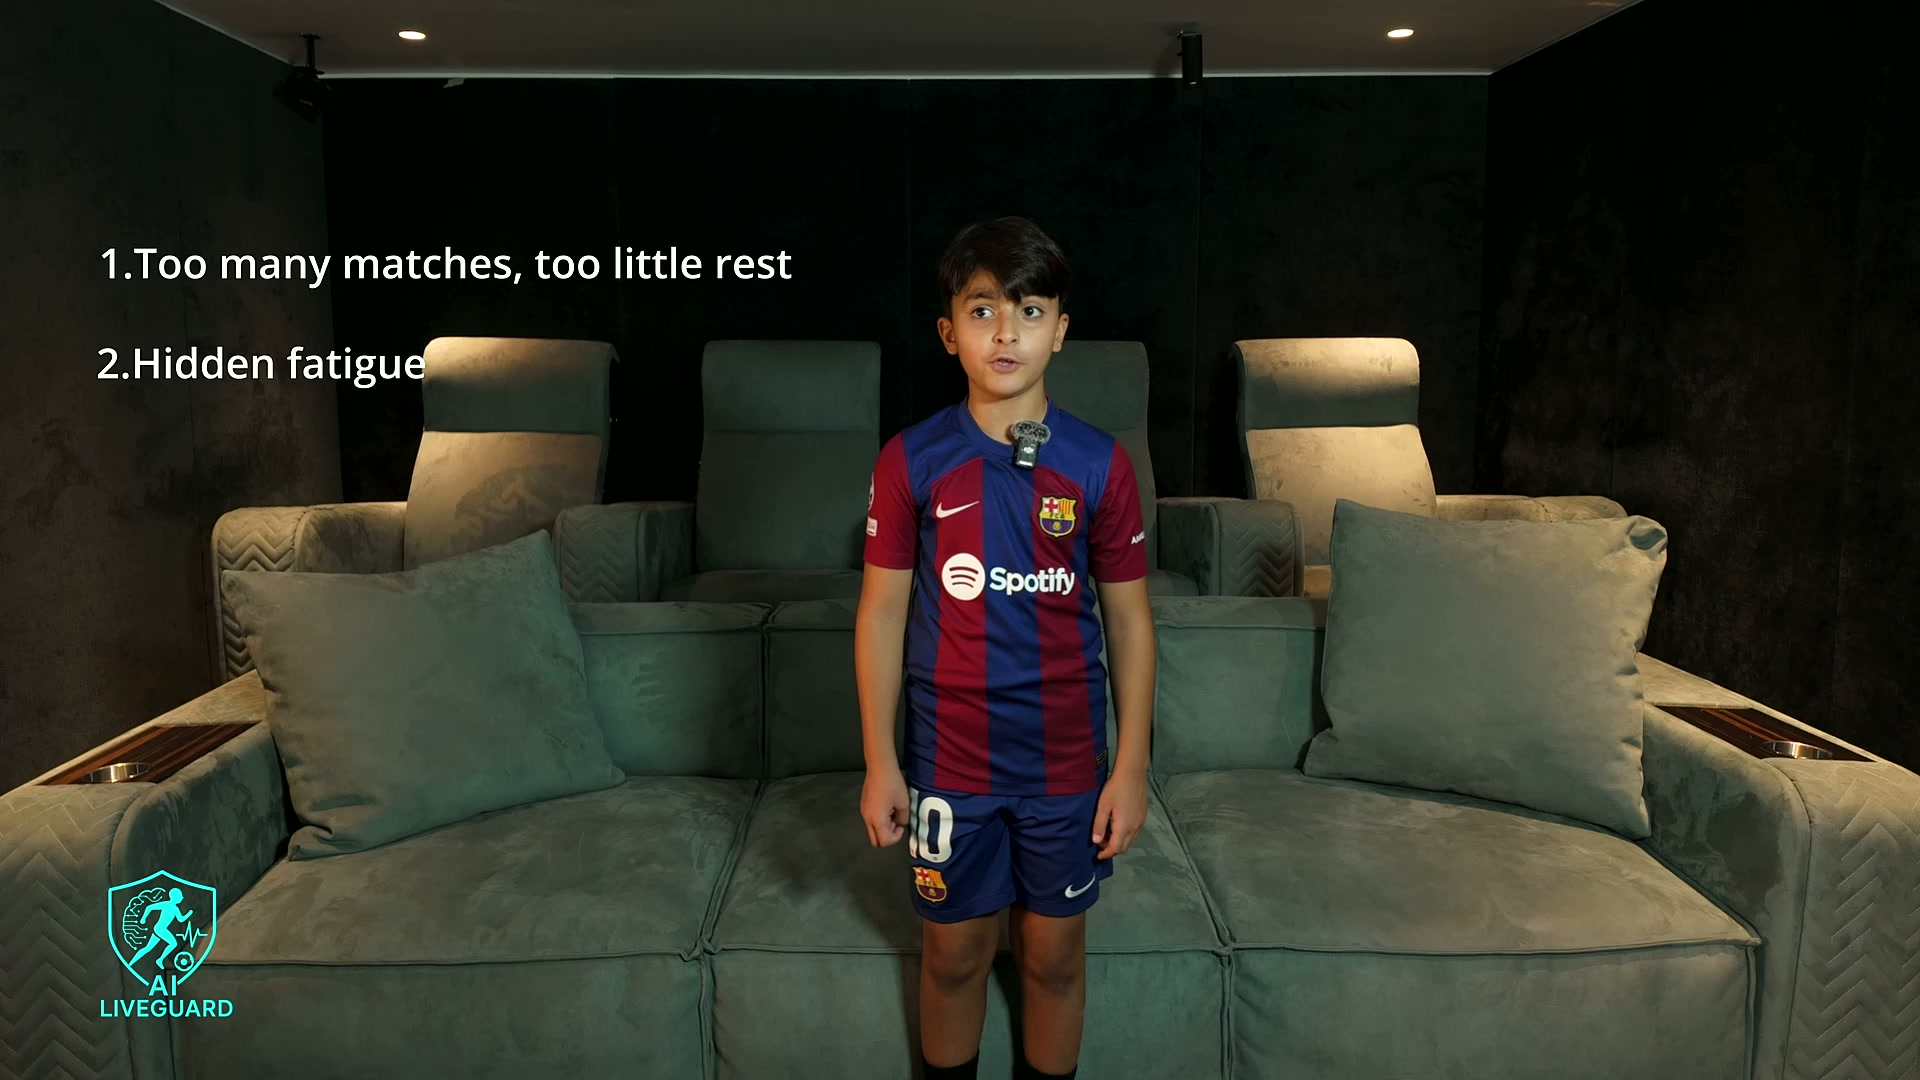
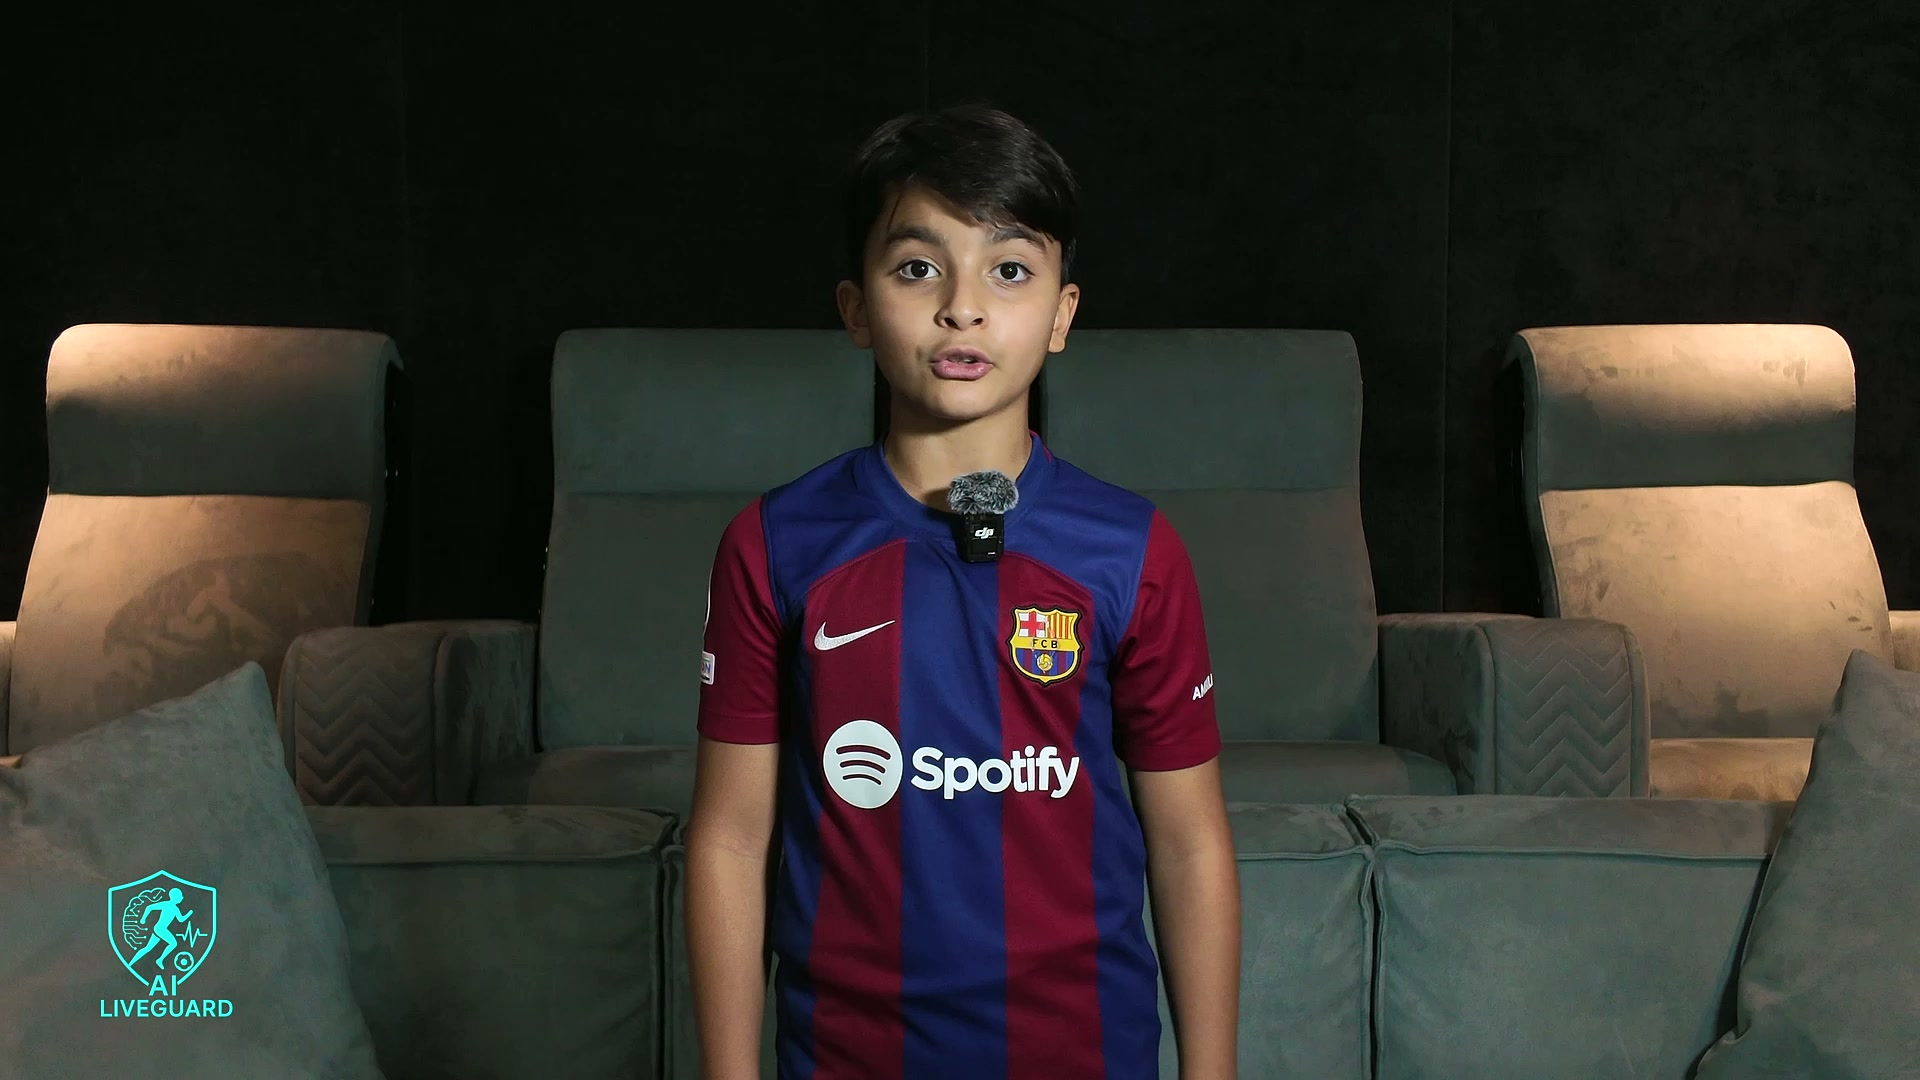
Rewrite About, fix step-list layout, new video poster, nicer hero line

diff --git a/src/App.jsx b/src/App.jsx
@@ -57,10 +57,9 @@ export default function App() {
         <header className="hero" id="top">
           <span className="glow" /><span className="grid" />
           <div className="inner">
-            <img className="portrait" src="img/tawfiq.jpg" alt="Tawfiq Fakhouri" />
             <p className="eyebrow">Portfolio · 2024 — 2026</p>
             <h1>Tawfiq<br />Fakhouri</h1>
-            <p className="sub">10 years old · Robot builder · Coder · Maker</p>
+            <p className="sub">Ten years old · <b>He finds the problem, then builds the answer</b></p>
             <p className="lede">
               Everything here is something Tawfiq actually built — robots that run, games he
               programmed, circuits he soldered, and an app he invented that
@@ -223,18 +222,33 @@ export default function App() {
         <section className="sec" id="about">
           <p className="sec-label">About</p>
           <h2>About Tawfiq</h2>
-          <p className="measure" style={{ fontSize: 'clamp(18px,2vw,23px)', lineHeight: 1.5 }}>
-            Tawfiq is ten. He builds robots, writes games, solders his own circuits and flies FPV
-            drones — and the thing he does best is <b>look at a problem and think of something to
-            build that would solve it</b>.
+
+          <p className="abig">
+            Tawfiq is ten years old, and he has already built more than seventy things.
           </p>
+
           <p className="measure">
-            That is how AI LiveGuard started, and it is why the judges at the Dead Sea gave him the
-            Creative Solution Award. He is now training on LEGO Mindstorms for competition.
+            Robots that drive themselves. Games with rules he wrote. Circuits joined with his own
+            soldering iron. Drones he learned to fly in a simulator first, then for real.
           </p>
+
           <p className="measure">
-            Everything in this portfolio was built with his instructor, <b>Nmaa Al Hawary</b>, between
-            2024 and 2026.
+            But the part that sets him apart is not any one of those. It is what happens before the
+            building starts — <b>he looks at a problem and thinks of something that would solve it</b>.
+          </p>
+
+          <p className="measure">
+            That is where AI LiveGuard came from: a boy who noticed that tired footballers get hurt,
+            and decided the coach should be able to see it coming. It is also why the judges at the
+            Dead Sea handed him the <b>Creative Solution Award</b>.
+          </p>
+
+          <p className="measure">
+            He is on LEGO Mindstorms now, training for the next competition.
+          </p>
+
+          <p className="asign">
+            Everything here was built alongside his instructor, <b>Nmaa Al Hawary</b> · 2024 — 2026
           </p>
         </section>
 

diff --git a/src/styles.css b/src/styles.css
@@ -345,6 +345,7 @@
   font-family:"IBM Plex Mono",monospace;font-size:10.5px;font-weight:600;color:var(--amber);
   background:var(--amber-soft,rgba(255,122,47,.12));width:24px;height:24px;border-radius:50%;
   display:grid;place-items:center;margin-top:2px}
+.how li > b,.how li > span{grid-column:2}
 .how b{font-family:"Archivo",sans-serif;font-size:15.5px;font-weight:600;color:var(--text);display:block}
 .how span{font-family:"IBM Plex Mono",monospace;font-size:11.5px;line-height:1.6;color:var(--text-faint)}
 
@@ -383,18 +384,6 @@
   border-radius:999px;padding:6px 12px}
 .plat.now .made li{border-color:var(--amber-dim);color:var(--text)}
 
-/* ---------- hero portrait ---------- */
-.hero .inner{position:relative}
-.portrait{
-  width:clamp(118px,14vw,210px);aspect-ratio:3/4;object-fit:cover;object-position:center 18%;
-  border-radius:16px;border:1px solid var(--line);display:block;margin:0 0 24px;
-  box-shadow:0 24px 60px -28px rgba(0,0,0,.95);
-}
-@media (min-width:900px){
-  .hero .inner{padding-right:clamp(230px,26vw,420px)}
-  .portrait{position:absolute;top:50%;right:0;transform:translateY(-50%);margin:0;
-    width:clamp(200px,24vw,360px);border-radius:20px}
-}
 
 /* ---------- toolkit icons ---------- */
 .tbadge{display:grid;place-items:center;width:42px;height:42px;border-radius:11px;
@@ -404,3 +393,13 @@
 .plat:hover .tbadge{color:var(--text);border-color:#2c3540}
 .plat.now .tbadge{color:var(--amber);border-color:var(--amber-dim);
   background:rgba(255,122,47,.09)}
+
+/* ---------- about ---------- */
+.abig{font-family:"Archivo",sans-serif;font-weight:600;font-stretch:87%;
+  font-size:clamp(21px,2.9vw,34px);line-height:1.22;letter-spacing:-.018em;
+  color:var(--text);max-width:22ch;margin:0 0 26px}
+#about .measure{font-size:clamp(16.5px,1.8vw,19px);margin-bottom:20px}
+.asign{margin:34px 0 0;padding-top:22px;border-top:1px solid var(--line);
+  font-family:"IBM Plex Mono",monospace;font-size:11.5px;letter-spacing:.08em;
+  text-transform:uppercase;color:var(--text-faint);max-width:none}
+.asign b{color:var(--amber);font-weight:500}
